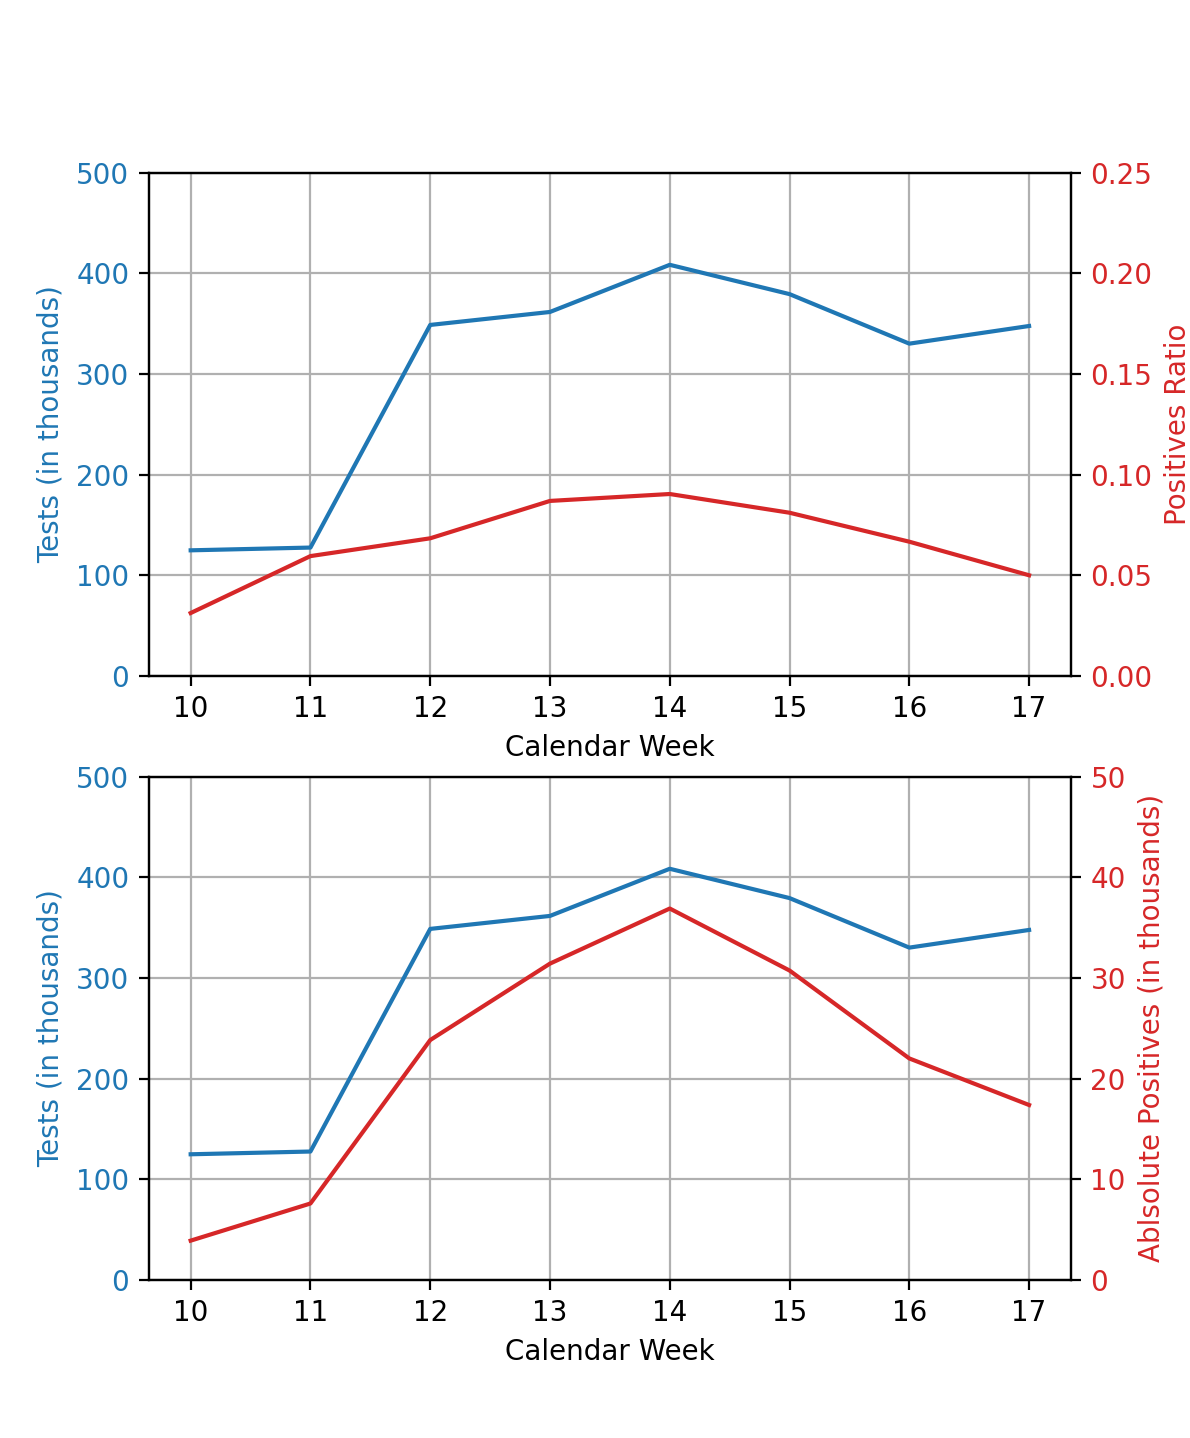
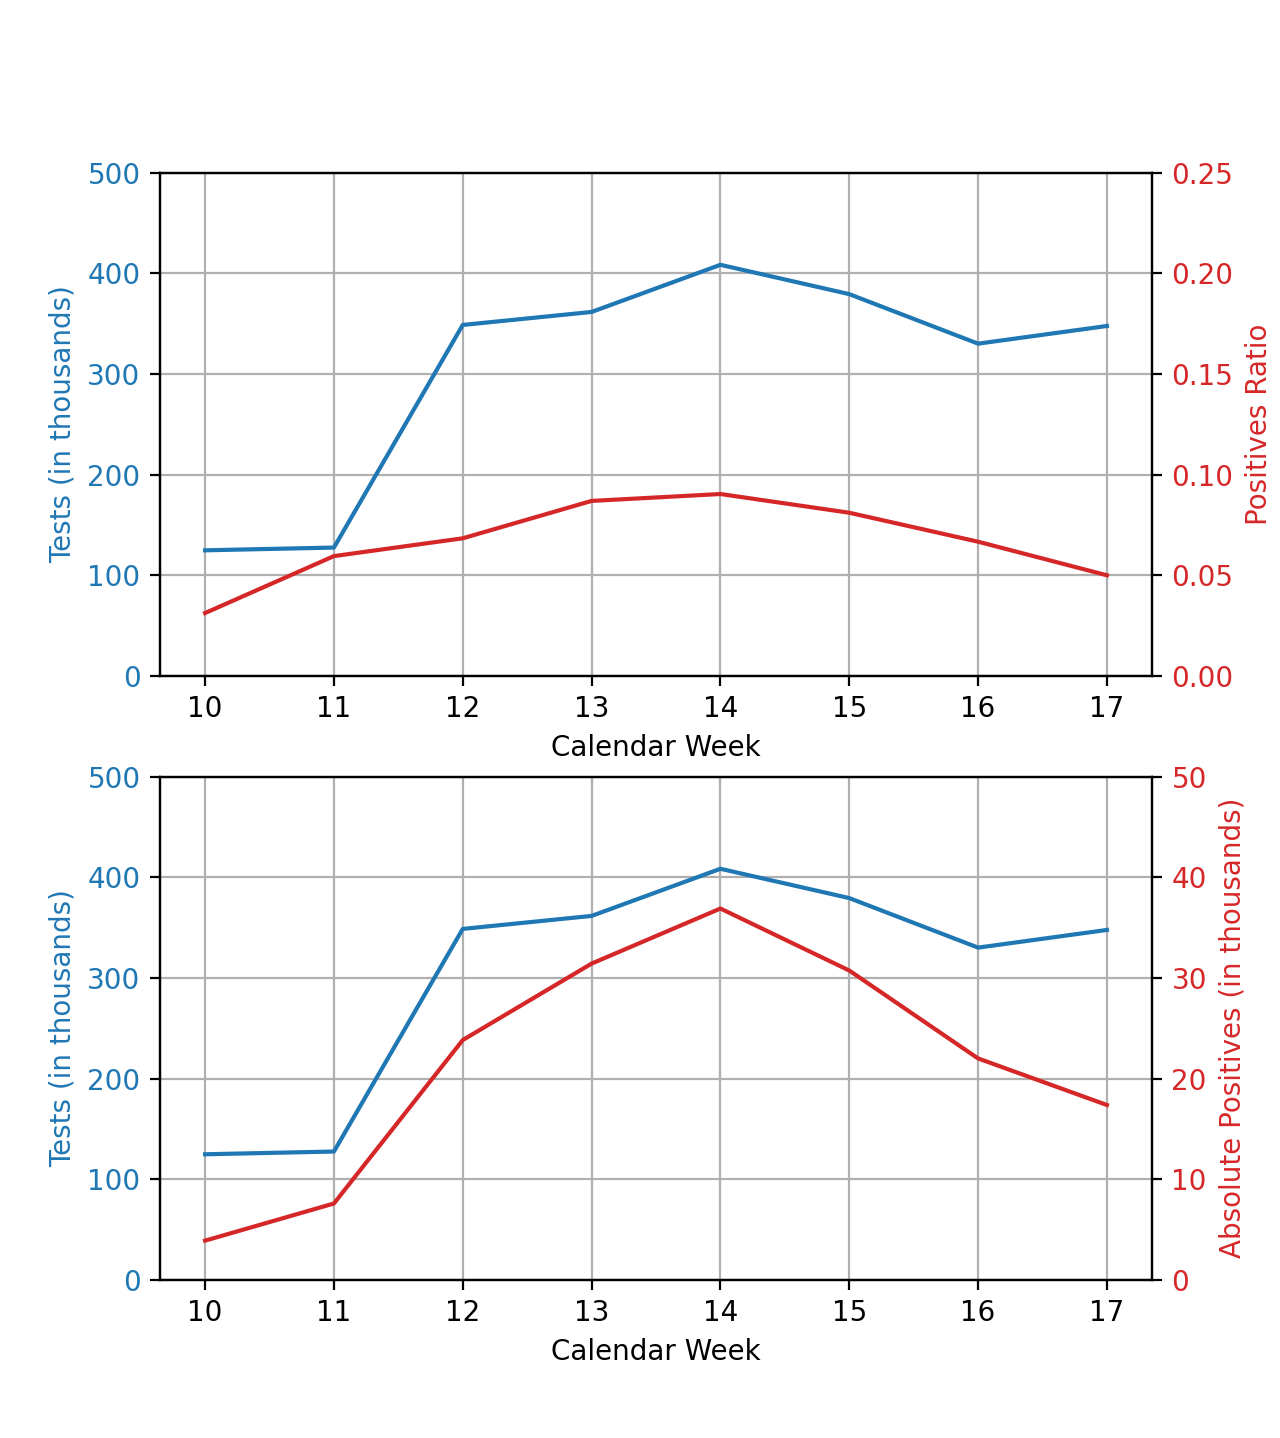
spelling error

diff --git a/corona_analysis.py b/corona_analysis.py
@@ -56,7 +56,7 @@ def cases_to_tests_germany():
     ax1.tick_params(axis='y', labelcolor=color)
     ax2 = ax1.twinx()
     color = 'tab:red'
-    ax2.set_ylabel('Ablsolute Positives (in thousands)', color=color)
+    ax2.set_ylabel('Absolute Positives (in thousands)', color=color)
     ax2.plot(time, positives, color=color)
     ax2.tick_params(axis='y', labelcolor=color)
     ax1.set_ylim([0, 500])
